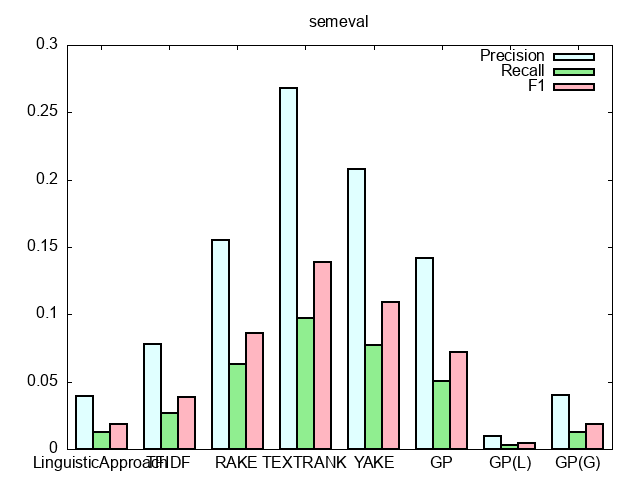
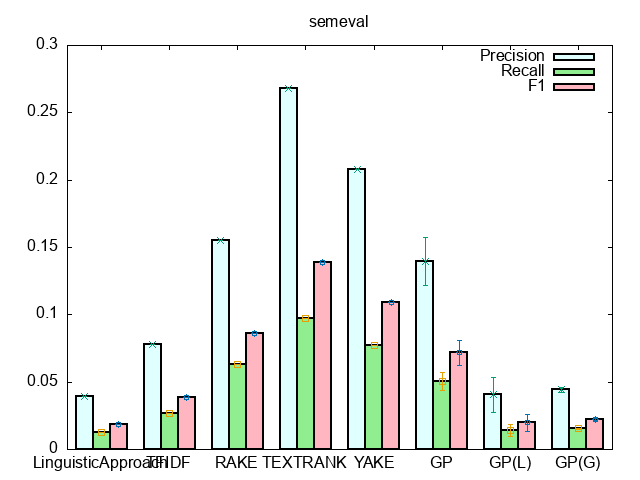
error bar

diff --git a/README.md b/README.md
@@ -63,8 +63,8 @@ lifehacker:
 ![](./extraction/results_lifehacker.png)
 gizmodo:
 ![](./extraction/results_gizmodo.png)
-
-
+semeval:
+![](./extraction/results_semeval.png)
 ## dataset statistics
 ### lifehacker
 ```
